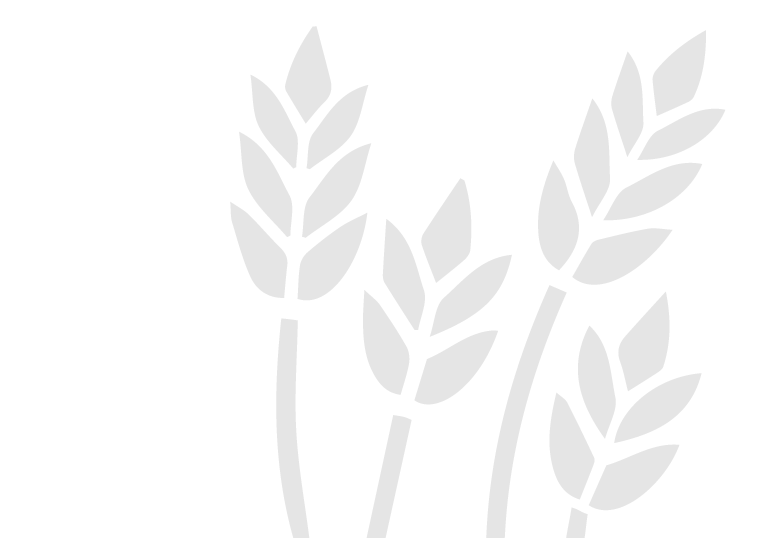
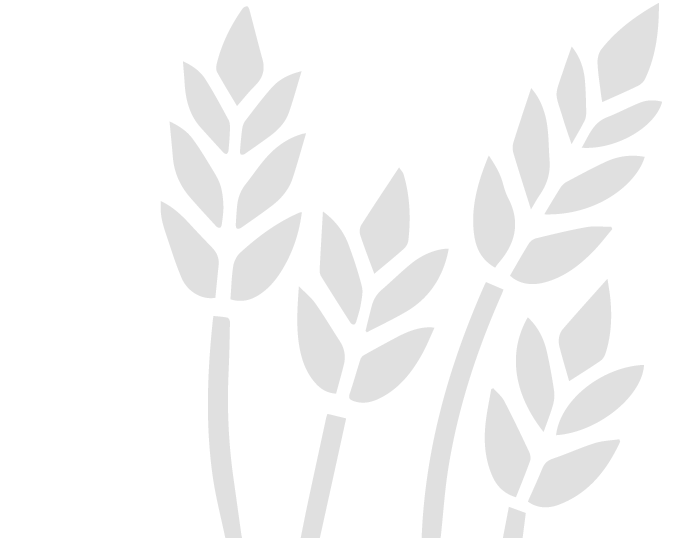
ver-2.4.1
se sustituyen imagenes de historia, slogan

diff --git a/molinosgrupokasto/css/style.css b/molinosgrupokasto/css/style.css
@@ -5587,7 +5587,7 @@ form.f1 button[type=submit].custom-btn.primary:not(:hover):not(:focus) {
     padding-top: 79px
   }
   .section--custom-1 {
-    background: url(../img/bg_slogan.png) right bottom 30%/80% no-repeat
+    background: url(../img/bg_slogan.png) right bottom 5%/80% no-repeat
   }
   .start-screen--style-2 {
     padding-top: 90px
@@ -8645,7 +8645,7 @@ color: #e61644;
     color: #0f70b7;
 }
 
-@media (max-width:736px) {
+@media (max-width:767px) {
   .site-footer_bottom .container {
     display: inline;
     text-align: center;

diff --git a/molinosgrupokasto/style_1/index.html b/molinosgrupokasto/style_1/index.html
@@ -621,7 +621,7 @@
 			<!-- end section -->
 
 			<!-- start section -->
-			<section class="section section--no-pt">
+			<section class="section section--no-pt section--custom-1">
 				<div class="container">
 					<div class="row">
 						<div class="col-md-6">
@@ -630,7 +630,6 @@
 							</div>
 						</div>
 					</div>
-					<!--<div style="height: 20px; background-color: #fcc65f;  border-color: #fcc65f; border-radius: 10px;"></div>-->
 				</div>
 			</section>
 			<!-- end section -->
